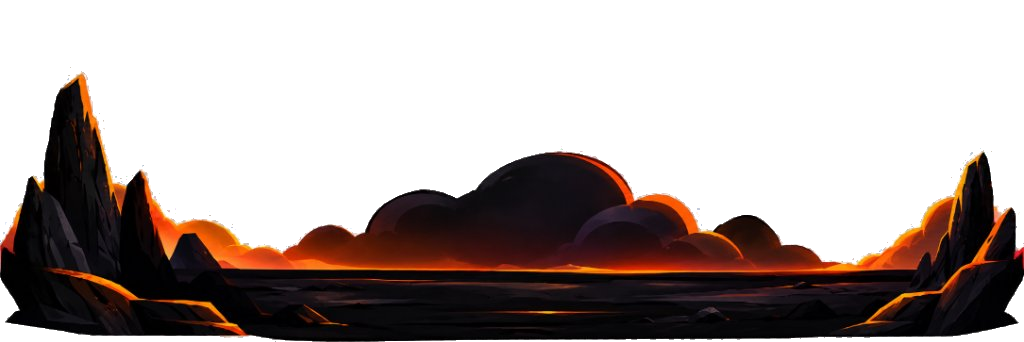
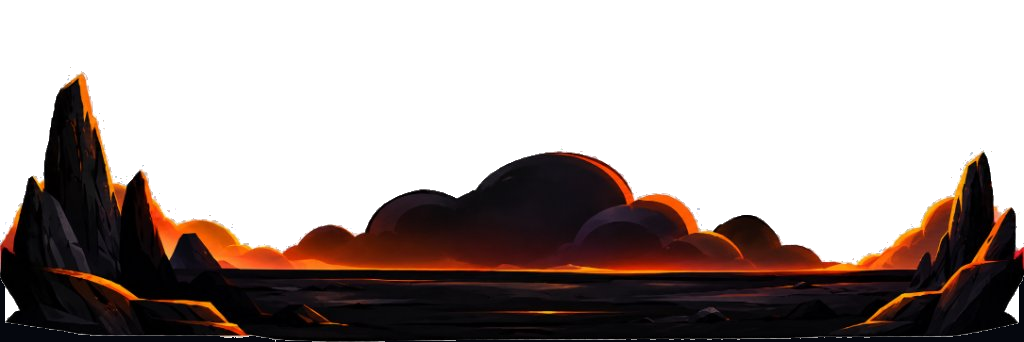
LAND-07: Broaden footer, seamless black base, enlarged sitting astronaut on glowing orange border, and rocket hiding behind terrain

Changed region(s): [[0.375, 0.8187, 1.0, 1.0], [0.0, 0.8187, 0.3125, 1.0]]

diff --git a/src/features/landing/components/LandingFooter.tsx b/src/features/landing/components/LandingFooter.tsx
@@ -6,16 +6,15 @@ import { playQuindar } from "../../../lib/gameAudio";
 
 export function LandingFooter() {
   const [isAstronautHovered, setIsAstronautHovered] = useState(false);
-  const [speechBubbleText, setSpeechBubbleText] = useState(
-    "Whew! What a cosmic journey. Thanks for exploring with us, Commander! 🪐",
-  );
-
   const [quoteIndex, setQuoteIndex] = useState(0);
+  const [speechBubbleText, setSpeechBubbleText] = useState(
+    "Taking a breather on Mars! What an adventure, Commander! 🪐",
+  );
 
   const handleAstronautClick = () => {
     playQuindar();
     const quotes = [
-      "Whew! What a cosmic journey. Thanks for exploring with us, Commander! 🪐",
+      "Taking a breather on Mars! What an adventure, Commander! 🪐",
       "Did you know? Apollo footprints will last 100 million years on the Moon! 🐾",
       "Mars has the tallest volcano in the solar system: Olympus Mons! 🌋",
       "Ready for another mission? Click 'Missions' or 'START MISSION' above! 🚀",
@@ -23,18 +22,18 @@ export function LandingFooter() {
     ];
     const nextIndex = (quoteIndex + 1) % quotes.length;
     setQuoteIndex(nextIndex);
-    const fallback = "Whew! What a cosmic journey. Thanks for exploring with us, Commander! 🪐";
+    const fallback = "Taking a breather on Mars! What an adventure, Commander! 🪐";
     setSpeechBubbleText(quotes[nextIndex] ?? fallback);
   };
 
   return (
-    <footer className="relative overflow-visible border-t border-space-800 bg-space-950/85 pt-24 pb-16 min-h-[500px] text-regolith-300 md:pt-32 md:pb-24">
+    <footer className="relative z-20 overflow-hidden border-t-[3px] border-orange-500/80 bg-space-950 pt-28 pb-16 min-h-[580px] text-regolith-300 shadow-[0_-4px_30px_rgba(255,120,0,0.5)] md:pt-36 md:pb-24">
       
-      {/* 1. Left Side: Sitting Cartoon Astronaut Sitting on the Top Border Line */}
-      <div className="absolute -top-[70px] left-6 sm:left-12 md:left-20 lg:left-28 z-30 select-none">
+      {/* 1. Left Side: Sitting Cartoon Astronaut Firmly Sitting on the Orange Border Line */}
+      <div className="absolute top-0 left-6 sm:left-12 md:left-20 lg:left-28 -translate-y-[92%] z-30 select-none">
         
-        {/* Cute Contextual Speech Bubble above sitting astronaut */}
-        <div className="relative mb-2 max-w-[260px] sm:max-w-[300px]">
+        {/* Cute Speech Bubble above sitting astronaut */}
+        <div className="relative mb-3 max-w-[260px] sm:max-w-[310px]">
           <AnimatePresence mode="wait">
             <motion.div
               key={speechBubbleText}
@@ -44,8 +43,8 @@ export function LandingFooter() {
               transition={{ duration: 0.25 }}
               className={`rounded-2xl border px-3.5 py-2 text-center text-xs font-semibold shadow-xl backdrop-blur-md transition-colors ${
                 isAstronautHovered
-                  ? "border-amber-400/80 bg-space-900/95 text-amber-300 shadow-amber-500/20"
-                  : "border-space-700/80 bg-space-900/90 text-regolith-200 shadow-space-950/80"
+                  ? "border-amber-400 bg-space-900/95 text-amber-300 shadow-amber-500/25"
+                  : "border-orange-500/60 bg-space-900/95 text-regolith-200 shadow-space-950/90"
               }`}
             >
               <div className="flex items-center justify-center gap-1.5">
@@ -53,14 +52,14 @@ export function LandingFooter() {
                 <span>{speechBubbleText}</span>
               </div>
               {/* Speech bubble pointer pointing down to helmet */}
-              <div className="absolute -bottom-2 left-10 h-0 w-0 border-x-8 border-x-transparent border-t-8 border-t-space-900/90" />
+              <div className="absolute -bottom-2 left-12 h-0 w-0 border-x-8 border-x-transparent border-t-8 border-t-space-900/95" />
             </motion.div>
           </AnimatePresence>
         </div>
 
-        {/* Sitting Mascot sitting directly on the border line */}
+        {/* Sitting Mascot with Idle Breathing & Interactive Hover */}
         <motion.div
-          whileHover={{ scale: 1.08 }}
+          whileHover={{ scale: 1.06 }}
           whileTap={{ scale: 0.96 }}
           animate={{
             y: [0, -3, 0],
@@ -79,45 +78,46 @@ export function LandingFooter() {
           className="relative cursor-pointer"
           title="Click the resting astronaut for fun space facts!"
         >
-          {/* Warm Ambient Helmet & Suit Glow */}
+          {/* Orange Rim Light & Contact Shadow on the Border Line */}
+          <div className="pointer-events-none absolute -bottom-2 left-1/2 -translate-x-1/2 h-4 w-28 rounded-full bg-orange-500/50 blur-sm" />
           <div
-            className={`pointer-events-none absolute inset-0 rounded-full bg-gradient-to-t from-orange-600/30 via-amber-400/20 to-transparent blur-xl transition-opacity duration-300 ${
+            className={`pointer-events-none absolute inset-0 rounded-full bg-gradient-to-t from-orange-600/35 via-amber-400/20 to-transparent blur-xl transition-opacity duration-300 ${
               isAstronautHovered ? "opacity-100 scale-110" : "opacity-60"
             }`}
           />
 
-          {/* Sitting Cartoon Astronaut Asset */}
+          {/* Tightly Cropped High-Res Sitting Cartoon Astronaut Asset */}
           <img
             src="/art/sitting-astronaut.png"
             alt="Resting Cartoon Astronaut Sitting on Border Line"
-            className="h-28 sm:h-32 md:h-36 w-auto object-contain drop-shadow-[0_15px_25px_rgba(255,120,0,0.4)]"
+            className="h-36 sm:h-44 md:h-52 w-auto object-contain drop-shadow-[0_12px_25px_rgba(255,120,0,0.5)]"
           />
 
-          {/* Interactive Hint Pill on Hover */}
+          {/* Interactive Click Hint Pill on Hover */}
           {isAstronautHovered && (
-            <span className="absolute -bottom-6 left-1/2 -translate-x-1/2 whitespace-nowrap rounded-full bg-space-900/90 border border-amber-500/40 px-2 py-0.5 text-[10px] font-bold text-amber-300 shadow">
+            <span className="absolute -bottom-7 left-1/2 -translate-x-1/2 whitespace-nowrap rounded-full bg-space-900 border border-amber-500/50 px-2.5 py-0.5 text-[10px] font-bold text-amber-300 shadow-md">
               Click to chat! 🧑🚀
             </span>
           )}
         </motion.div>
       </div>
 
-      {/* 2. Bottom Martian Volcanic Landscape Background (User 3rd attached image) */}
-      <div className="pointer-events-none absolute bottom-0 inset-x-0 h-44 sm:h-60 md:h-72 overflow-hidden z-0" aria-hidden="true">
+      {/* 2. Bottom Martian Volcanic Landscape Background (Solid Black Base underneath) */}
+      <div className="pointer-events-none absolute bottom-0 inset-x-0 h-48 sm:h-64 md:h-84 overflow-hidden z-0" aria-hidden="true">
         {/* Radiant Magma Horizon Glow */}
-        <div className="absolute bottom-0 inset-x-0 h-36 bg-gradient-to-t from-orange-600/30 via-amber-500/15 to-transparent blur-2xl" />
+        <div className="absolute bottom-0 inset-x-0 h-40 bg-gradient-to-t from-orange-600/30 via-amber-500/15 to-transparent blur-2xl z-0" />
         
         {/* Transparent Martian Rocky Mountain Terrain */}
         <img
           src="/art/martian-landscape.png"
           alt="Martian Rocky Terrain Footer Base"
-          className="absolute bottom-0 inset-x-0 w-full h-full object-cover object-bottom opacity-85 select-none"
+          className="absolute bottom-0 inset-x-0 w-full h-full object-cover object-bottom opacity-90 select-none z-0"
         />
       </div>
 
-      {/* 3. Main Footer Content Grid */}
+      {/* 3. Main Footer Content Grid (Clean, Broad, High-Contrast Typography) */}
       <div className="relative z-10 mx-auto max-w-7xl px-4 sm:px-6">
-        <div className="grid grid-cols-1 gap-10 md:grid-cols-2 lg:grid-cols-12 lg:gap-8">
+        <div className="grid grid-cols-1 gap-12 md:grid-cols-2 lg:grid-cols-12 lg:gap-8">
           
           {/* Brand & Made By Column */}
           <div className="flex flex-col lg:col-span-4">
@@ -149,8 +149,8 @@ export function LandingFooter() {
               </p>
             </div>
 
-            {/* Passport Storage Indicator */}
-            <div className="mt-4 inline-flex items-center gap-2 rounded-lg border border-space-800 bg-space-900/60 px-3 py-1.5 text-[11px] text-regolith-400 backdrop-blur w-fit">
+            {/* Offline Passport indicator */}
+            <div className="mt-4 inline-flex items-center gap-2 rounded-lg border border-space-800 bg-space-900/80 px-3 py-1.5 text-[11px] text-regolith-400 backdrop-blur w-fit">
               <Sparkles className="h-3.5 w-3.5 text-warn-500" />
               <span>Offline Ready · Explorer Passport Local Vault</span>
             </div>
@@ -158,37 +158,37 @@ export function LandingFooter() {
 
           {/* Quick Navigation Links */}
           <div className="flex flex-col lg:col-span-2">
-            <p className="font-display text-sm font-bold uppercase tracking-wider text-regolith-100">
+            <p className="font-display text-xs font-bold uppercase tracking-widest text-amber-400 drop-shadow-[0_0_8px_rgba(255,180,0,0.4)]">
               Navigation
             </p>
-            <ul className="mt-3 space-y-2 text-xs font-medium text-regolith-300">
+            <ul className="mt-4 space-y-2.5 text-xs font-semibold text-regolith-300">
               <li>
-                <Link to="/missions" className="hover:text-amber-400 transition-colors">
+                <Link to="/missions" className="hover:text-amber-300 transition-colors">
                   Missions Directory
                 </Link>
               </li>
               <li>
-                <a href="#how-to-play" className="hover:text-amber-400 transition-colors">
+                <a href="#how-to-play" className="hover:text-amber-300 transition-colors">
                   How to Play
                 </a>
               </li>
               <li>
-                <a href="#gravity-lab" className="hover:text-amber-400 transition-colors">
+                <a href="#gravity-lab" className="hover:text-amber-300 transition-colors">
                   Gravity Lab
                 </a>
               </li>
               <li>
-                <a href="#controls" className="hover:text-amber-400 transition-colors">
+                <a href="#controls" className="hover:text-amber-300 transition-colors">
                   Flight Controls
                 </a>
               </li>
               <li>
-                <Link to="/credits" className="hover:text-amber-400 transition-colors">
+                <Link to="/credits" className="hover:text-amber-300 transition-colors">
                   Credits & Licences
                 </Link>
               </li>
               <li>
-                <Link to="/settings" className="hover:text-amber-400 transition-colors">
+                <Link to="/settings" className="hover:text-amber-300 transition-colors">
                   Settings
                 </Link>
               </li>
@@ -197,35 +197,35 @@ export function LandingFooter() {
 
           {/* Apollo & Mars Destinations */}
           <div className="flex flex-col lg:col-span-3">
-            <p className="font-display text-sm font-bold uppercase tracking-wider text-regolith-100">
+            <p className="font-display text-xs font-bold uppercase tracking-widest text-amber-400 drop-shadow-[0_0_8px_rgba(255,180,0,0.4)]">
               Landing Sites
             </p>
-            <div className="mt-3 grid grid-cols-2 gap-x-2 gap-y-1.5 text-xs text-regolith-400">
-              <span className="hover:text-regolith-200 transition-colors">Apollo 11</span>
-              <span className="hover:text-regolith-200 transition-colors">Viking 1</span>
-              <span className="hover:text-regolith-200 transition-colors">Apollo 12</span>
-              <span className="hover:text-regolith-200 transition-colors">Pathfinder</span>
-              <span className="hover:text-regolith-200 transition-colors">Apollo 14</span>
-              <span className="hover:text-regolith-200 transition-colors">Opportunity</span>
-              <span className="hover:text-regolith-200 transition-colors">Apollo 15</span>
-              <span className="hover:text-regolith-200 transition-colors">Curiosity</span>
-              <span className="hover:text-regolith-200 transition-colors">Apollo 16</span>
-              <span className="hover:text-regolith-200 transition-colors">Perseverance</span>
-              <span className="hover:text-regolith-200 transition-colors">Apollo 17</span>
-              <span className="hover:text-regolith-200 transition-colors">Ingenuity</span>
+            <div className="mt-4 grid grid-cols-2 gap-x-2 gap-y-2 text-xs font-medium text-regolith-300">
+              <span className="hover:text-white transition-colors cursor-default">Apollo 11</span>
+              <span className="hover:text-white transition-colors cursor-default">Viking 1</span>
+              <span className="hover:text-white transition-colors cursor-default">Apollo 12</span>
+              <span className="hover:text-white transition-colors cursor-default">Pathfinder</span>
+              <span className="hover:text-white transition-colors cursor-default">Apollo 14</span>
+              <span className="hover:text-white transition-colors cursor-default">Opportunity</span>
+              <span className="hover:text-white transition-colors cursor-default">Apollo 15</span>
+              <span className="hover:text-white transition-colors cursor-default">Curiosity</span>
+              <span className="hover:text-white transition-colors cursor-default">Apollo 16</span>
+              <span className="hover:text-white transition-colors cursor-default">Perseverance</span>
+              <span className="hover:text-white transition-colors cursor-default">Apollo 17</span>
+              <span className="hover:text-white transition-colors cursor-default">Ingenuity</span>
             </div>
           </div>
 
           {/* Connect & Support Column */}
           <div className="flex flex-col lg:col-span-3">
-            <p className="font-display text-sm font-bold uppercase tracking-wider text-regolith-100">
+            <p className="font-display text-xs font-bold uppercase tracking-widest text-amber-400 drop-shadow-[0_0_8px_rgba(255,180,0,0.4)]">
               Connect & Support
             </p>
-            <p className="mt-2 text-xs text-regolith-400">
+            <p className="mt-2 text-xs text-regolith-400 leading-relaxed">
               Cosmosyy is an educational open-data space exploration project by Abhinav Dwivedi.
             </p>
 
-            <div className="mt-4 flex flex-col gap-2.5">
+            <div className="mt-4 flex flex-col gap-3">
               {/* Buy Me a Coffee Button */}
               <motion.a
                 whileHover={{ scale: 1.03 }}
@@ -233,7 +233,7 @@ export function LandingFooter() {
                 href="https://buymeacoffee.com/learnerabhinav"
                 target="_blank"
                 rel="noopener noreferrer"
-                className="flex items-center justify-center gap-2 rounded-xl border border-amber-500/50 bg-gradient-to-r from-amber-500/20 via-warn-500/25 to-yellow-500/20 px-4 py-2.5 text-xs font-bold text-amber-300 shadow-sm transition-all hover:border-amber-400 hover:bg-amber-400/30"
+                className="flex items-center justify-center gap-2 rounded-xl border border-amber-500/60 bg-gradient-to-r from-amber-500/25 via-warn-500/30 to-amber-600/25 px-5 py-3 text-xs font-bold text-amber-300 shadow-md transition-all hover:border-amber-400 hover:bg-amber-400/35 hover:shadow-amber-500/30"
               >
                 <Coffee className="h-4 w-4 text-amber-300" />
                 <span>Buy Me a Coffee</span>
@@ -246,7 +246,7 @@ export function LandingFooter() {
                 href="https://www.linkedin.com/in/abhinav-dwivedi-b074a136a/"
                 target="_blank"
                 rel="noopener noreferrer"
-                className="flex items-center justify-center gap-2 rounded-xl border border-sky-500/50 bg-sky-600/30 px-4 py-2.5 text-xs font-bold text-sky-200 shadow-sm transition-all hover:border-sky-400 hover:bg-sky-500/40"
+                className="flex items-center justify-center gap-2 rounded-xl border border-sky-500/60 bg-gradient-to-r from-sky-600/35 to-blue-700/35 px-5 py-3 text-xs font-bold text-sky-200 shadow-md transition-all hover:border-sky-400 hover:bg-sky-500/40"
               >
                 <svg className="h-4 w-4 fill-current" viewBox="0 0 24 24" aria-hidden="true">
                   <path d="M19 0h-14c-2.761 0-5 2.239-5 5v14c0 2.761 2.239 5 5 5h14c2.762 0 5-2.239 5-5v-14c0-2.761-2.238-5-5-5zm-11 19h-3v-11h3v11zm-1.5-12.268c-.966 0-1.75-.79-1.75-1.764s.784-1.764 1.75-1.764 1.75.79 1.75 1.764-.783 1.764-1.75 1.764zm13.5 12.268h-3v-5.604c0-3.368-4-3.113-4 0v5.604h-3v-11h3v1.765c1.396-2.586 7-2.777 7 2.476v6.759z" />
@@ -259,7 +259,7 @@ export function LandingFooter() {
                 href="https://devabhinav.xyz/"
                 target="_blank"
                 rel="noopener noreferrer"
-                className="mt-1 text-center text-xs font-semibold text-amber-400 hover:underline transition-colors"
+                className="mt-1 text-center text-xs font-bold text-amber-400 hover:text-amber-300 underline underline-offset-4 decoration-amber-500/40 hover:decoration-amber-400 transition-colors"
               >
                 🌐 devabhinav.xyz
               </a>
@@ -268,12 +268,12 @@ export function LandingFooter() {
 
         </div>
 
-        {/* Bottom Bar: Copyright & NASA Open Data Disclaimer */}
-        <div className="mt-16 border-t border-space-800/80 pt-8 text-center text-xs text-regolith-400">
-          <p>
+        {/* Bottom Bar: Clean Solid Base with Copyright & NASA Open Data Disclaimer */}
+        <div className="mt-20 border-t border-space-800/90 pt-8 pb-4 text-center text-xs text-regolith-400 relative z-20">
+          <p className="max-w-3xl mx-auto leading-relaxed">
             Historical landing site data, coordinates, and telemetry derived from NASA Open Data, Apollo Lunar Surface Journal (ALSJ), and LROC imagery.
           </p>
-          <p className="mt-2 text-regolith-500">
+          <p className="mt-2 font-medium text-regolith-500">
             © 2026 Cosmosyy · Built for space exploration enthusiasts & curious young minds.
           </p>
         </div>

diff --git a/src/features/landing/components/LandingDescendingRocket.tsx b/src/features/landing/components/LandingDescendingRocket.tsx
@@ -11,11 +11,11 @@ export function LandingDescendingRocket({ targetRef }: DescendingRocketProps) {
     offset: ["start 80%", "end end"],
   });
 
-  // Moves straight downward as user scrolls (from top of section right down inside footer)
+  // Moves straight downward as user scrolls (from top of section down behind footer mountain landscape)
   const driftTop = useTransform(
     scrollYProgress,
     [0, 0.25, 0.5, 0.75, 1],
-    ["1%", "24%", "48%", "72%", "96.5%"],
+    ["1%", "23%", "45%", "68%", "87%"],
   );
 
   // Subtle aerodynamic gimbal steering sway around 122.5° (where 122.5° is exactly pointing straight down)

diff --git a/src/features/mission-select/MissionSelectPage.tsx b/src/features/mission-select/MissionSelectPage.tsx
@@ -172,7 +172,6 @@ function MissionCard({
   const { t } = useTranslation();
   const isLocked = status === "locked";
   const isCompleted = status === "completed";
-  const accentColor = isMars ? "warn" : "signal";
 
   return (
     <motion.div

diff --git a/docs/PROGRESS.md b/docs/PROGRESS.md
@@ -45,3 +45,4 @@
 | 2026-11-13 | LAND-04 | done | Descending rocket with animated blazing flame on right: added LandingDescendingRocket starting from right corner of Gravity Simulator, pointing straight down (122.5 deg alignment), scroll-triggered straight downward translation across page; animated thruster plume flicker, glowing plasma core, engine vibration, and sparks; lint 0, typecheck pass, tests 17/17, build pass | next: Mars/Moon 3D heritage models & terrain height-sync |
 | 2026-11-13 | LAND-05 | done | Extend descending rocket travel till footer: containerRef now wraps down through LandingFooter, rocket driftTop interpolates from 1% to 94% till footer on scroll, LandingFooter uses translucent backdrop (bg-space-950/80) so rocket and flame are visible at footer landing zone; lint 0, typecheck pass, tests 17/17, build pass | next: Mars/Moon 3D heritage models & terrain height-sync |
 | 2026-11-13 | LAND-06 | done | Redesign hero section & epic martian footer: hero updated to match mockup with golden spiral galaxy, giant glowing Mars planet, bottom volcanic ridge, 3D glowing orbital halo ring around mascot, 4 stat cards; footer height increased (500px+) with volcanic terrain base (martian-landscape.png), sitting orange astronaut (sitting-astronaut.png) resting on top border with interactive quotes, rocket descends directly inside footer terrain; lint 0, typecheck pass, tests 17/17, build pass | next: Mars/Moon 3D heritage models & terrain height-sync |
+| 2026-11-13 | LAND-07 | done | Broaden footer & seamless black base: filled bottom of martian-landscape.png with solid terrain black (#05070E) so no stars peek below mountains, enlarged sitting astronaut with tight crop sitting firmly on glowing orange border stroke (border-t-[3px] border-orange-500/80), rocket descent smoothly dives behind opaque footer terrain at z-20, fixed lint in MissionSelectPage; lint 0, typecheck pass, tests 17/17, build pass | next: Mars/Moon 3D heritage models & terrain height-sync |
